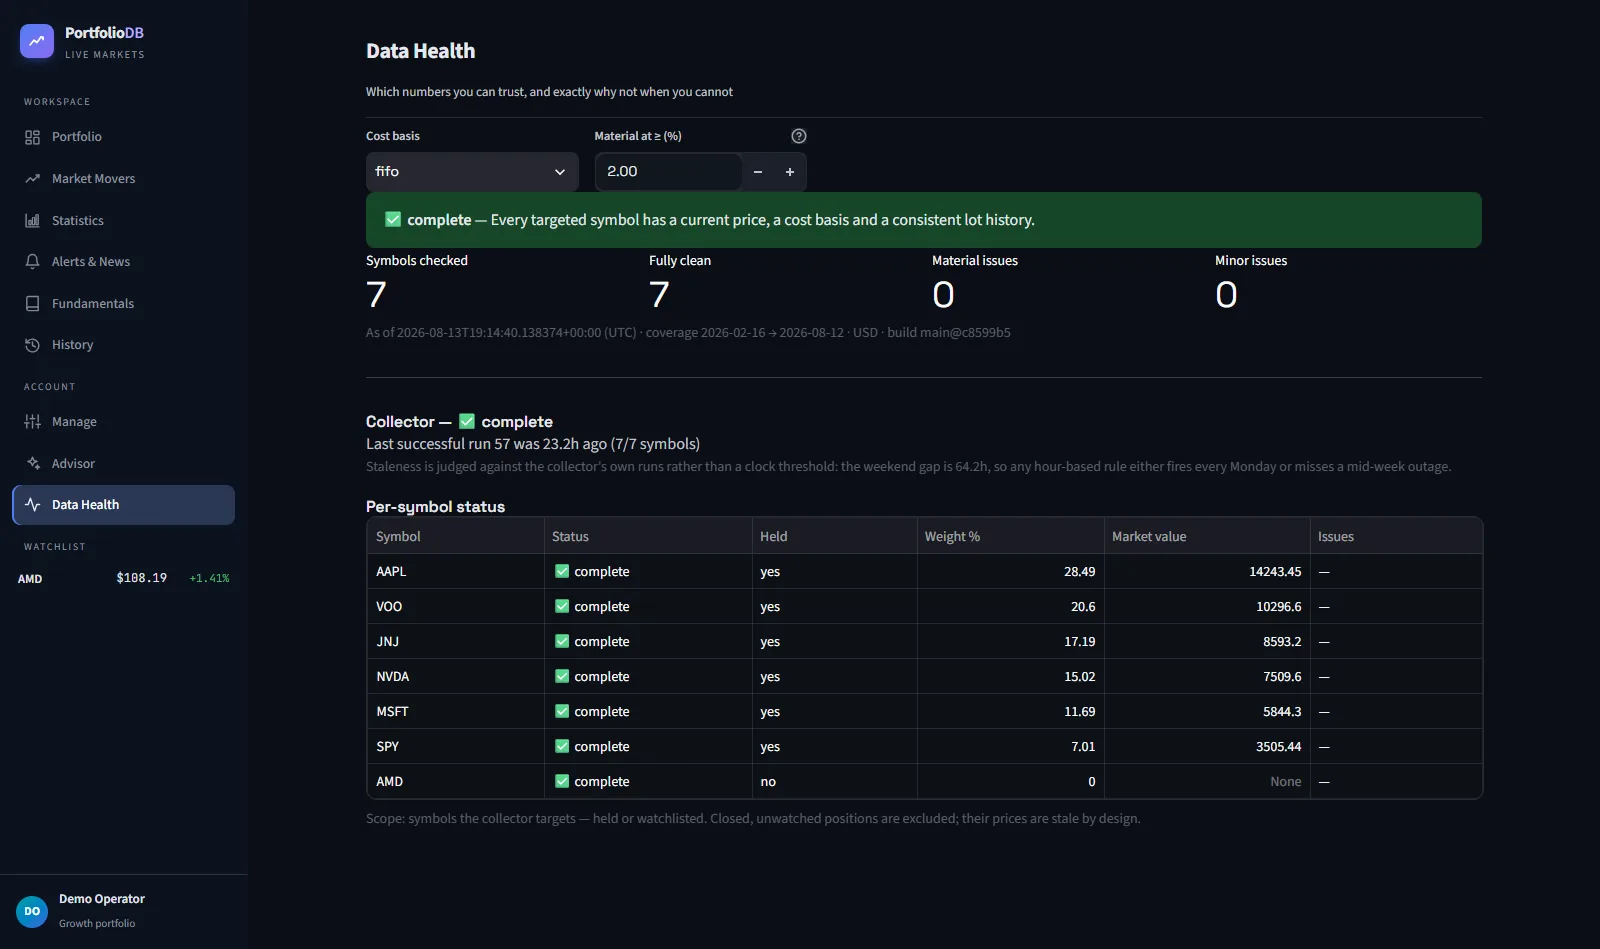
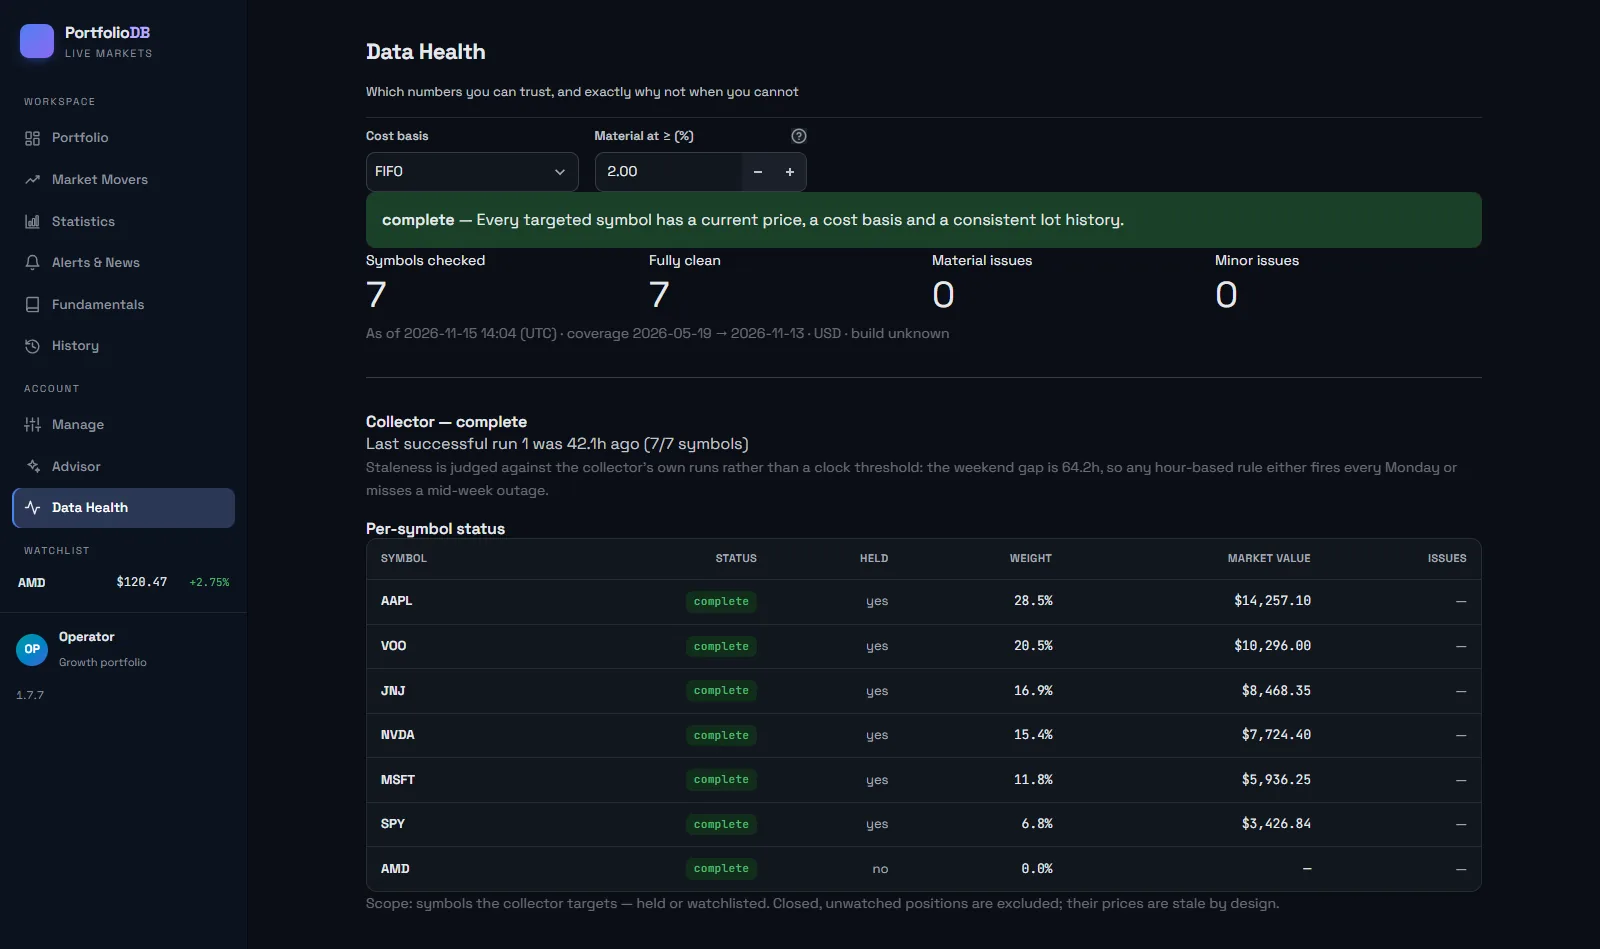
docs: front end as built after #122; README screenshots retaken (K-1)
CLAUDE.md and CONTRIBUTING.md describe the merged front-end build as
current: ES modules under app/dashboard/static/src bundled by esbuild into
the committed app.js/app.css (npm run build), checked by the Front end
workflow (build:check, zero-warning ESLint, jsdom tests). The README's
privacy note names the opt-in logo CDN and the self-hosted fonts.

The four README screenshots are retaken from the demo ledger on this
branch: same files, 1600x949 WebP, dark theme as before. They now show
the markets strip, Cash (as entered), the FIFO label and status wells
on Data Health, and the Advisor's password gate unlocked.

diff --git a/README.md b/README.md
@@ -63,7 +63,7 @@ commands and you have a dashboard on port 8501.
 > Use of this software is at your own risk. It is provided "as is", without
 > warranty of any kind, as set out in the [AGPL-3.0 license](LICENSE).
 
-![The portfolio view: KPI row, time-weighted returns, value history and allocation](docs/images/portfolio.webp)
+![The portfolio view: KPI row, markets strip and time-weighted returns](docs/images/portfolio.webp)
 
 <details>
 <summary>More screens — statistics, advisor, data health</summary>
@@ -371,7 +371,8 @@ PortfolioDB/
 │   ├── streamlit_app.py       # Dashboard shell + embedded views
 │   ├── modern2_native.py      # Native views (Manage / Advisor / Data Health)
 │   ├── native_auth.py         # The password gate in front of every dashboard write
-│   ├── dashboard/             # Payload builder + static shell / js / css
+│   ├── dashboard/             # Payload builder + the read-only views' front end:
+│   │                          # static/src (ES modules) → committed app.js / app.css (npm run build)
 │   ├── advisor.py             # Brief + chat (Anthropic/OpenAI/OpenRouter/Ollama)
 │   ├── exec_report.py         # Self-contained HTML executive report
 │   ├── portfolio.py           # FIFO/avg-cost merge (single source of truth for positions)
@@ -681,7 +682,7 @@ git config core.hooksPath .githooks
 - `philosophy.md` is **gitignored.** It contains personal financial context. Use the `.template` to start; edit the real file locally.
 - The database lives in the `pgdata` named volume (or a directory you point at via an override). Postgres owns it — never edit, move, or delete files inside it while the stack is running.
 - `.env`, `cache/`, `backups/`, and `archive/` are gitignored.
-- Nothing phones home. The only outbound requests are yfinance price lookups, your LLM provider if you enable the advisor, and Financial Datasets if you enable enrichment.
+- Nothing phones home. The only outbound requests are yfinance price lookups, your LLM provider if you enable the advisor, Financial Datasets if you enable enrichment, and ticker logos — fetched into a local cache by `fetch_ticker_logos.py`, and loaded from the logo CDN by your browser only if you set `PORTFOLIODB_LOGO_CDN`. The dashboard's fonts are self-hosted.
 
 ---
 

diff --git a/CLAUDE.md b/CLAUDE.md
@@ -209,7 +209,9 @@ Two halves share one Streamlit session.
 - The native pages write through `native_writes.py`, behind the gate in `native_auth.py`.
 - Moving between the halves is a rerun in the same session, so an unlock and form drafts survive.
 - The totals that the payload, the reports, the Advisor and the MCP share come from `app/portfolio_kpis.py`.
-- Pull request #122 turns `app.js` and `app.css` into an esbuild bundle of the JavaScript modules under `static/src/`, rebuilt with `npm run build`. Once it is merged, edit the modules and rebuild instead of editing the bundle.
+- `app.js` and `app.css` are generated and committed. `app/dashboard/static/build.mjs` bundles the JavaScript modules under `static/src/` with esbuild, and joins the fonts, `tokens.css` and `src/styles/app.css`.
+- Edit the sources, then run `npm run build` from the repo root. Nothing builds at runtime, so the image and a host-run Streamlit need no Node.
+- The `Front end` workflow (`.github/workflows/frontend.yml`) runs `npm run build:check`, ESLint with zero warnings, and the jsdom tests (`npm test`). The ESLint rules are what make an unescaped `innerHTML` a build failure.
 
 ### Layers
 - `app/db.py` — psycopg2 connection + `fetch_all` / `execute` helpers. Everything in `app/` goes through this; the ad-hoc scripts at the repo root often open their own psycopg2 connections.

diff --git a/CONTRIBUTING.md b/CONTRIBUTING.md
@@ -103,6 +103,25 @@ docker stop pdb-test
 Or just `make test`, which runs the fast suites in an image built from your
 working tree.
 
+### The dashboard front end
+
+The read-only views are built from the ES modules under
+`app/dashboard/static/src/` into `app.js` and `app.css`, which are committed —
+running the dashboard needs no Node. Changing the front end does (Node 22.13 or
+newer), from the repo root:
+
+```bash
+npm ci --ignore-scripts        # exact versions from package-lock.json
+npm run build                  # rebuild app.js / app.css; commit them with the sources
+npm run lint                   # ESLint, zero warnings
+npm test                       # jsdom: every view, refresh, theme, CSV export, a hostile-payload XSS walk
+```
+
+Edit the sources, never the generated files. The `Front end` workflow runs
+`npm run build:check` (the committed bundle must be what the sources build),
+the lint and the tests. Markup goes through the escaping `html` template in
+`src/core/html.js`; the lint rules fail any other way of writing HTML.
+
 ## What the code expects of you
 
 - **Money is `Decimal`** end to end inside the engines. Convert to `float` only

diff --git a/CHANGELOG.md b/CHANGELOG.md
@@ -560,7 +560,10 @@ needs a schema step says so under **Upgrading**.
   Stale "no login" wording is corrected in `SECURITY.md`,
   `docs/llm-providers.md` and the compose, override-example, `.env.template`
   and `schema.sql` comments; the one-pager steps no longer name an
-  emoji the page has dropped. Screenshots wait for the front-end change.
+  emoji the page has dropped. `CONTRIBUTING.md` describes the front end's
+  build (`npm run build`, the `Front end` workflow), and the README's privacy
+  note names the opt-in logo CDN. The README screenshots are retaken from
+  the demo ledger on 1.8 (audit K-1): same files, same size, dark theme.
 
 ## [1.7.7] — 2026-11-15
 
